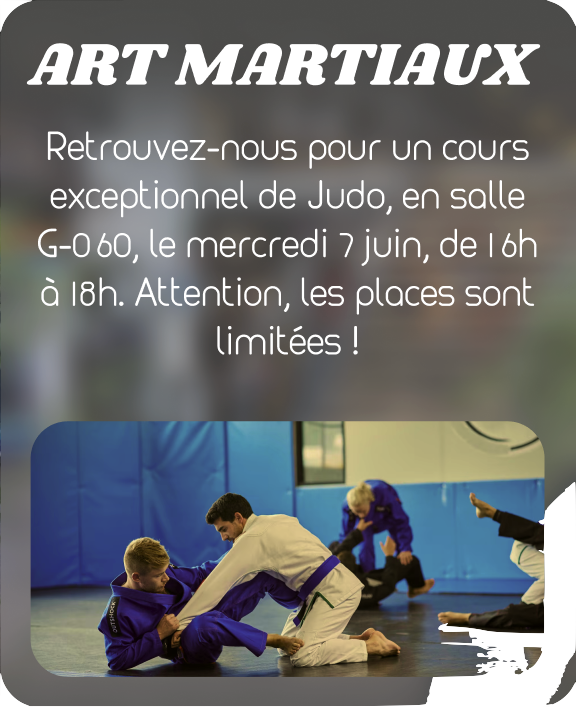
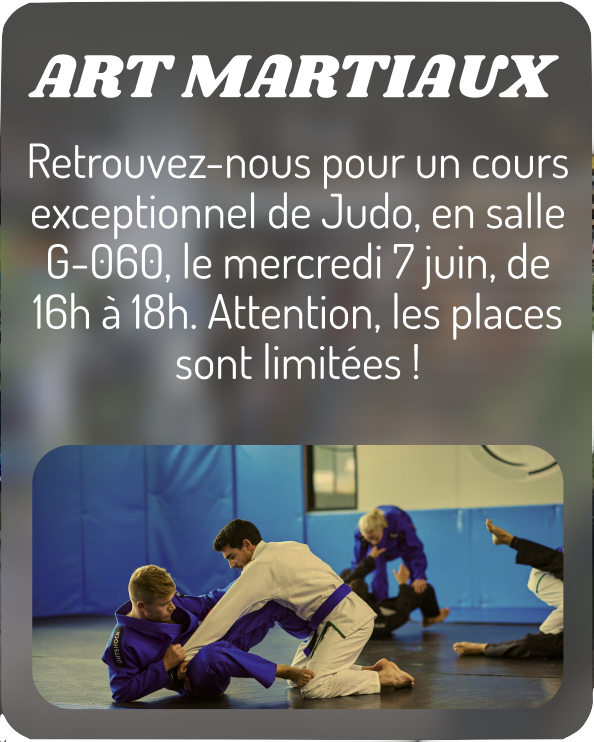
CAROUSEL

diff --git a/index.html b/index.html
@@ -6,6 +6,7 @@
     <link rel="stylesheet" href="styles/home.css" type="text/css" />
     <link rel="stylesheet" href="styles/general.css" type="text/css" />
     <link rel="stylesheet" href="styles/scrollmenu.css" type="text/css" />
+    <link rel="stylesheet" href="styles/carousel.css" type="text/css" />
     <link rel="preconnect" href="https://fonts.googleapis.com">
     <link rel="preconnect" href="https://fonts.gstatic.com" crossorigin>
     <link href="https://fonts.googleapis.com/css2?family=Dosis:wght@300;500&family=Shrikhand&display=swap" rel="stylesheet">
@@ -86,23 +87,23 @@
 <div class="bloc6">
     <div class="bloc6-1">
     </div>
-
-    <div class="options">
-                <div class="blocblur1">
-                    <p class ="titre"> NUTRITION <br></p>
-                    <p class="texte"> Le lundi 5 juin, venez-vous regrouper dans la salle Omnes à 15h pour
-                        recevoir un cours sur la nutrition dans le domaine sportif, et en particulier de la
-                        musculation !</p><br><br>
-                    <br><br><br><img src="Images/image 13.png" alt="nutrition"/>
-                </div>
-
-                <div class="blocblur2">
-                    <p class="titre"> CHALLENGE SPORTIF<br></p>
-                    <p class="texte"> Du 19 juin au 23 juin, relevez le "Challenge Sportif en Équipe" !
-                        Formez une team avec vos amis, votre famille ou d'autres membres de la communauté pour
-                        participer à une compétition amusante et motivante.</p>
-                    <img class="petitmargin" src="Images/challengesportif 1.png" alt="challengesportif"/>
-                </div>
+        <div class="slider">
+            <span id="slide-1"></span>
+            <span id="slide-2"></span>
+            <span id="slide-3"></span>
+            <span id="slide-4"></span>
+            <div class="cadre">
+                <img src="Images/ccc.png" class="slide" width="300" height="400" />
+                <img src="Images/aaa.png" class="slide" width="300" height="400" />
+                <img src="Images/bbb.png" class="slide" width="300" height="400" />
+                <img src="Images/ddd.png" class="slide" width="300" height="400" />
+            </div>
+            <div class="lesboutons">
+                <a href="#slide-1"></a>
+                <a href="#slide-2"></a>
+                <a href="#slide-3"></a>
+                <a href="#slide-4"></a>
+            </div>
 
     </div>
     </div>

diff --git a/styles/carousel.css b/styles/carousel.css
@@ -1,6 +1,6 @@
 .slider {
-    width: 500px;
-    height: 750px;
+    width: 300px;
+    height: 400px;
     margin-left: auto;
     margin-right: auto;
     margin-top: 0;
@@ -8,8 +8,8 @@
     overflow: hidden;
 }
 .cadre {
-    width: 1500px;
-    height: 750px;
+    width: 1300px;
+    height: 400px;
     clear: both;
     border-radius: 100px;
     position: relative;
@@ -28,16 +28,17 @@
     left: 0;
 }
 #slide-2:target ~ .cadre {
-    left: -500px;
+    left: -300px;
 }
 
 #slide-3:target ~ .cadre {
-    left: -1000px;
+    left: -600px;
 }
 
 #slide-4:target ~ .cadre {
-    left: -1500px;
+    left: -900px;
 }
+
 .lesboutons {
     position: relative;
     top: -20px;
